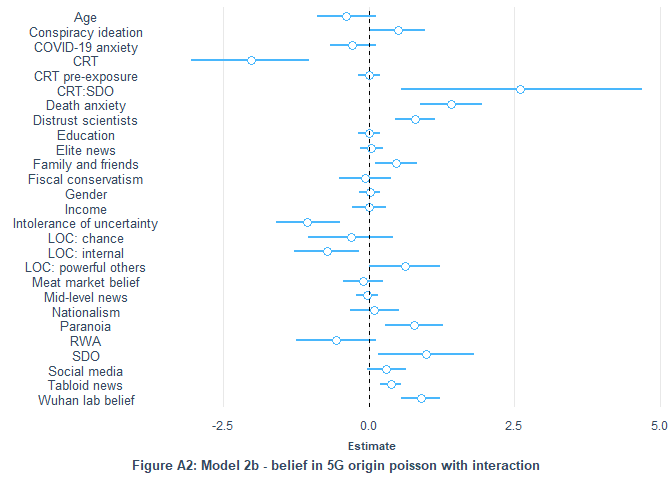
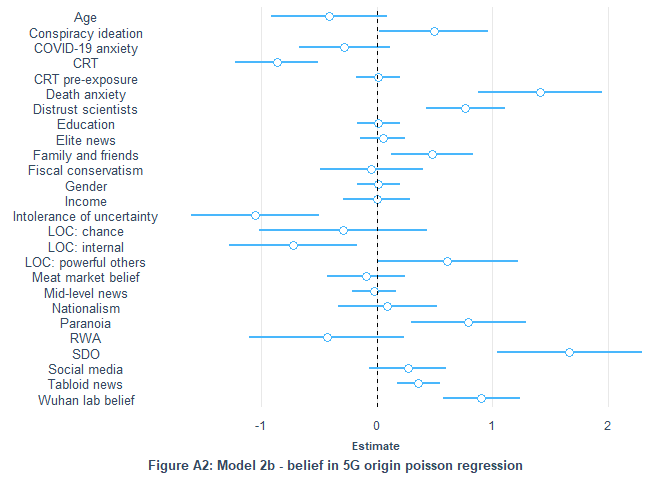
Updated poisson figure

diff --git a/covid_conspiracies_markdown2.md b/covid_conspiracies_markdown2.md
@@ -4220,7 +4220,7 @@ plot_coefs(
 
 ``` r
 # 5G belief - full set of variables and interaction term
-summ(full_int_5g_poiss)
+summ(full_5g_poiss)
 ```
 
     ## Note: Pseudo-R2 for quasibinomial/quasipoisson families is calculated by
@@ -4234,63 +4234,59 @@ summ(full_int_5g_poiss)
     ##   Link function: log 
     ## 
     ## MODEL FIT:
-    ## <U+03C7>²(27) = 17667.78, p = 0.00
+    ## <U+03C7>²(26) = 17475.91, p = 0.00
     ## Pseudo-R² (Cragg-Uhler) = 1.00
-    ## Pseudo-R² (McFadden) = 0.40
+    ## Pseudo-R² (McFadden) = 0.39
     ## AIC =  NA, BIC =  NA 
     ## 
     ## Standard errors: MLE
     ## ---------------------------------------------------------
     ##                               Est.   S.E.   t val.      p
     ## -------------------------- ------- ------ -------- ------
-    ## (Intercept)                   1.39   0.40     3.46   0.00
-    ## W2_Gender_binary2             0.01   0.10     0.13   0.89
-    ## W1_Education_binary1          0.00   0.10     0.04   0.97
-    ## W1_Income_2019                0.00   0.15     0.03   0.97
-    ## age_sc                       -0.39   0.26    -1.50   0.13
-    ## fis_con                      -0.07   0.23    -0.30   0.76
+    ## (Intercept)                   0.99   0.37     2.68   0.01
+    ## W2_Gender_binary2             0.02   0.09     0.16   0.87
+    ## W1_Education_binary1          0.02   0.10     0.17   0.87
+    ## W1_Income_2019                0.00   0.15     0.01   0.99
+    ## age_sc                       -0.41   0.26    -1.60   0.11
+    ## fis_con                      -0.05   0.23    -0.20   0.84
     ## nat                           0.09   0.22     0.43   0.67
-    ## distrust_science              0.80   0.17     4.57   0.00
-    ## red_top_tabloid               0.37   0.10     3.89   0.00
-    ## mid_level_news               -0.03   0.10    -0.30   0.76
-    ## elite_news                    0.05   0.10     0.46   0.65
-    ## W2_INFO_5                     0.30   0.17     1.79   0.07
-    ## W2_INFO_9                     0.47   0.18     2.59   0.01
-    ## RWA                          -0.57   0.35    -1.62   0.10
-    ## W2_DAI_Total                  1.41   0.27     5.18   0.00
+    ## distrust_science              0.77   0.17     4.40   0.00
+    ## red_top_tabloid               0.36   0.10     3.79   0.00
+    ## mid_level_news               -0.02   0.10    -0.23   0.82
+    ## elite_news                    0.05   0.10     0.55   0.58
+    ## W2_INFO_5                     0.27   0.17     1.60   0.11
+    ## W2_INFO_9                     0.48   0.18     2.67   0.01
+    ## SDO                           1.66   0.32     5.21   0.00
+    ## RWA                          -0.43   0.34    -1.26   0.21
+    ## W2_DAI_Total                  1.41   0.27     5.16   0.00
     ## W2_IOU_Total                 -1.05   0.28    -3.74   0.00
-    ## W2_Paranoia_Total             0.78   0.25     3.06   0.00
-    ## W2_PO_Total                   0.62   0.31     1.98   0.05
-    ## W2_Internal_Total            -0.73   0.28    -2.56   0.01
-    ## W2_Chance_Total              -0.31   0.37    -0.85   0.40
-    ## threat                       -0.28   0.20    -1.40   0.16
+    ## W2_Paranoia_Total             0.79   0.25     3.12   0.00
+    ## W2_PO_Total                   0.61   0.31     1.96   0.05
+    ## W2_Internal_Total            -0.72   0.28    -2.57   0.01
+    ## W2_Chance_Total              -0.29   0.37    -0.78   0.43
+    ## threat                       -0.28   0.20    -1.39   0.17
+    ## crt                          -0.86   0.18    -4.67   0.00
     ## CRT_test                      0.01   0.10     0.10   0.92
     ## W1_Conspiracy_Total           0.49   0.24     2.05   0.04
-    ## conspiracy1_sc                0.89   0.17     5.25   0.00
-    ## conspiracy2_sc               -0.10   0.17    -0.60   0.55
-    ## crt                          -2.02   0.51    -3.92   0.00
-    ## SDO                           0.98   0.42     2.33   0.02
-    ## crt:SDO                       2.61   1.05     2.47   0.01
+    ## conspiracy1_sc                0.91   0.17     5.35   0.00
+    ## conspiracy2_sc               -0.09   0.17    -0.55   0.58
     ## ---------------------------------------------------------
     ## 
-    ## Estimated dispersion parameter = 30.71
+    ## Estimated dispersion parameter = 30.49
 
 ``` r
-int_vars <- c(fiveg_vars,"crt:SDO")
-names(int_vars) <- c(names(fiveg_vars),"CRT:SDO")
-int_vars <- int_vars[sort(names(int_vars))]
 plot_coefs(
-  full_int_5g_poiss,
-  coefs = int_vars
+  full_5g_poiss,
+  coefs = fiveg_vars
   ) +
   labs(
-    caption = "Figure A2: Model 2b - belief in 5G origin poisson with interaction"
+    caption = "Figure A2: Model 2b - belief in 5G origin poisson regression"
   ) + 
   theme(plot.caption = element_text(hjust = 0.5,
                                     face = "bold",
                                     size = 10),
         axis.title.x = element_text(size = 8,
-                                    hjust = 0.4)
+                                    hjust = 0.41)
   )
 ```
 
